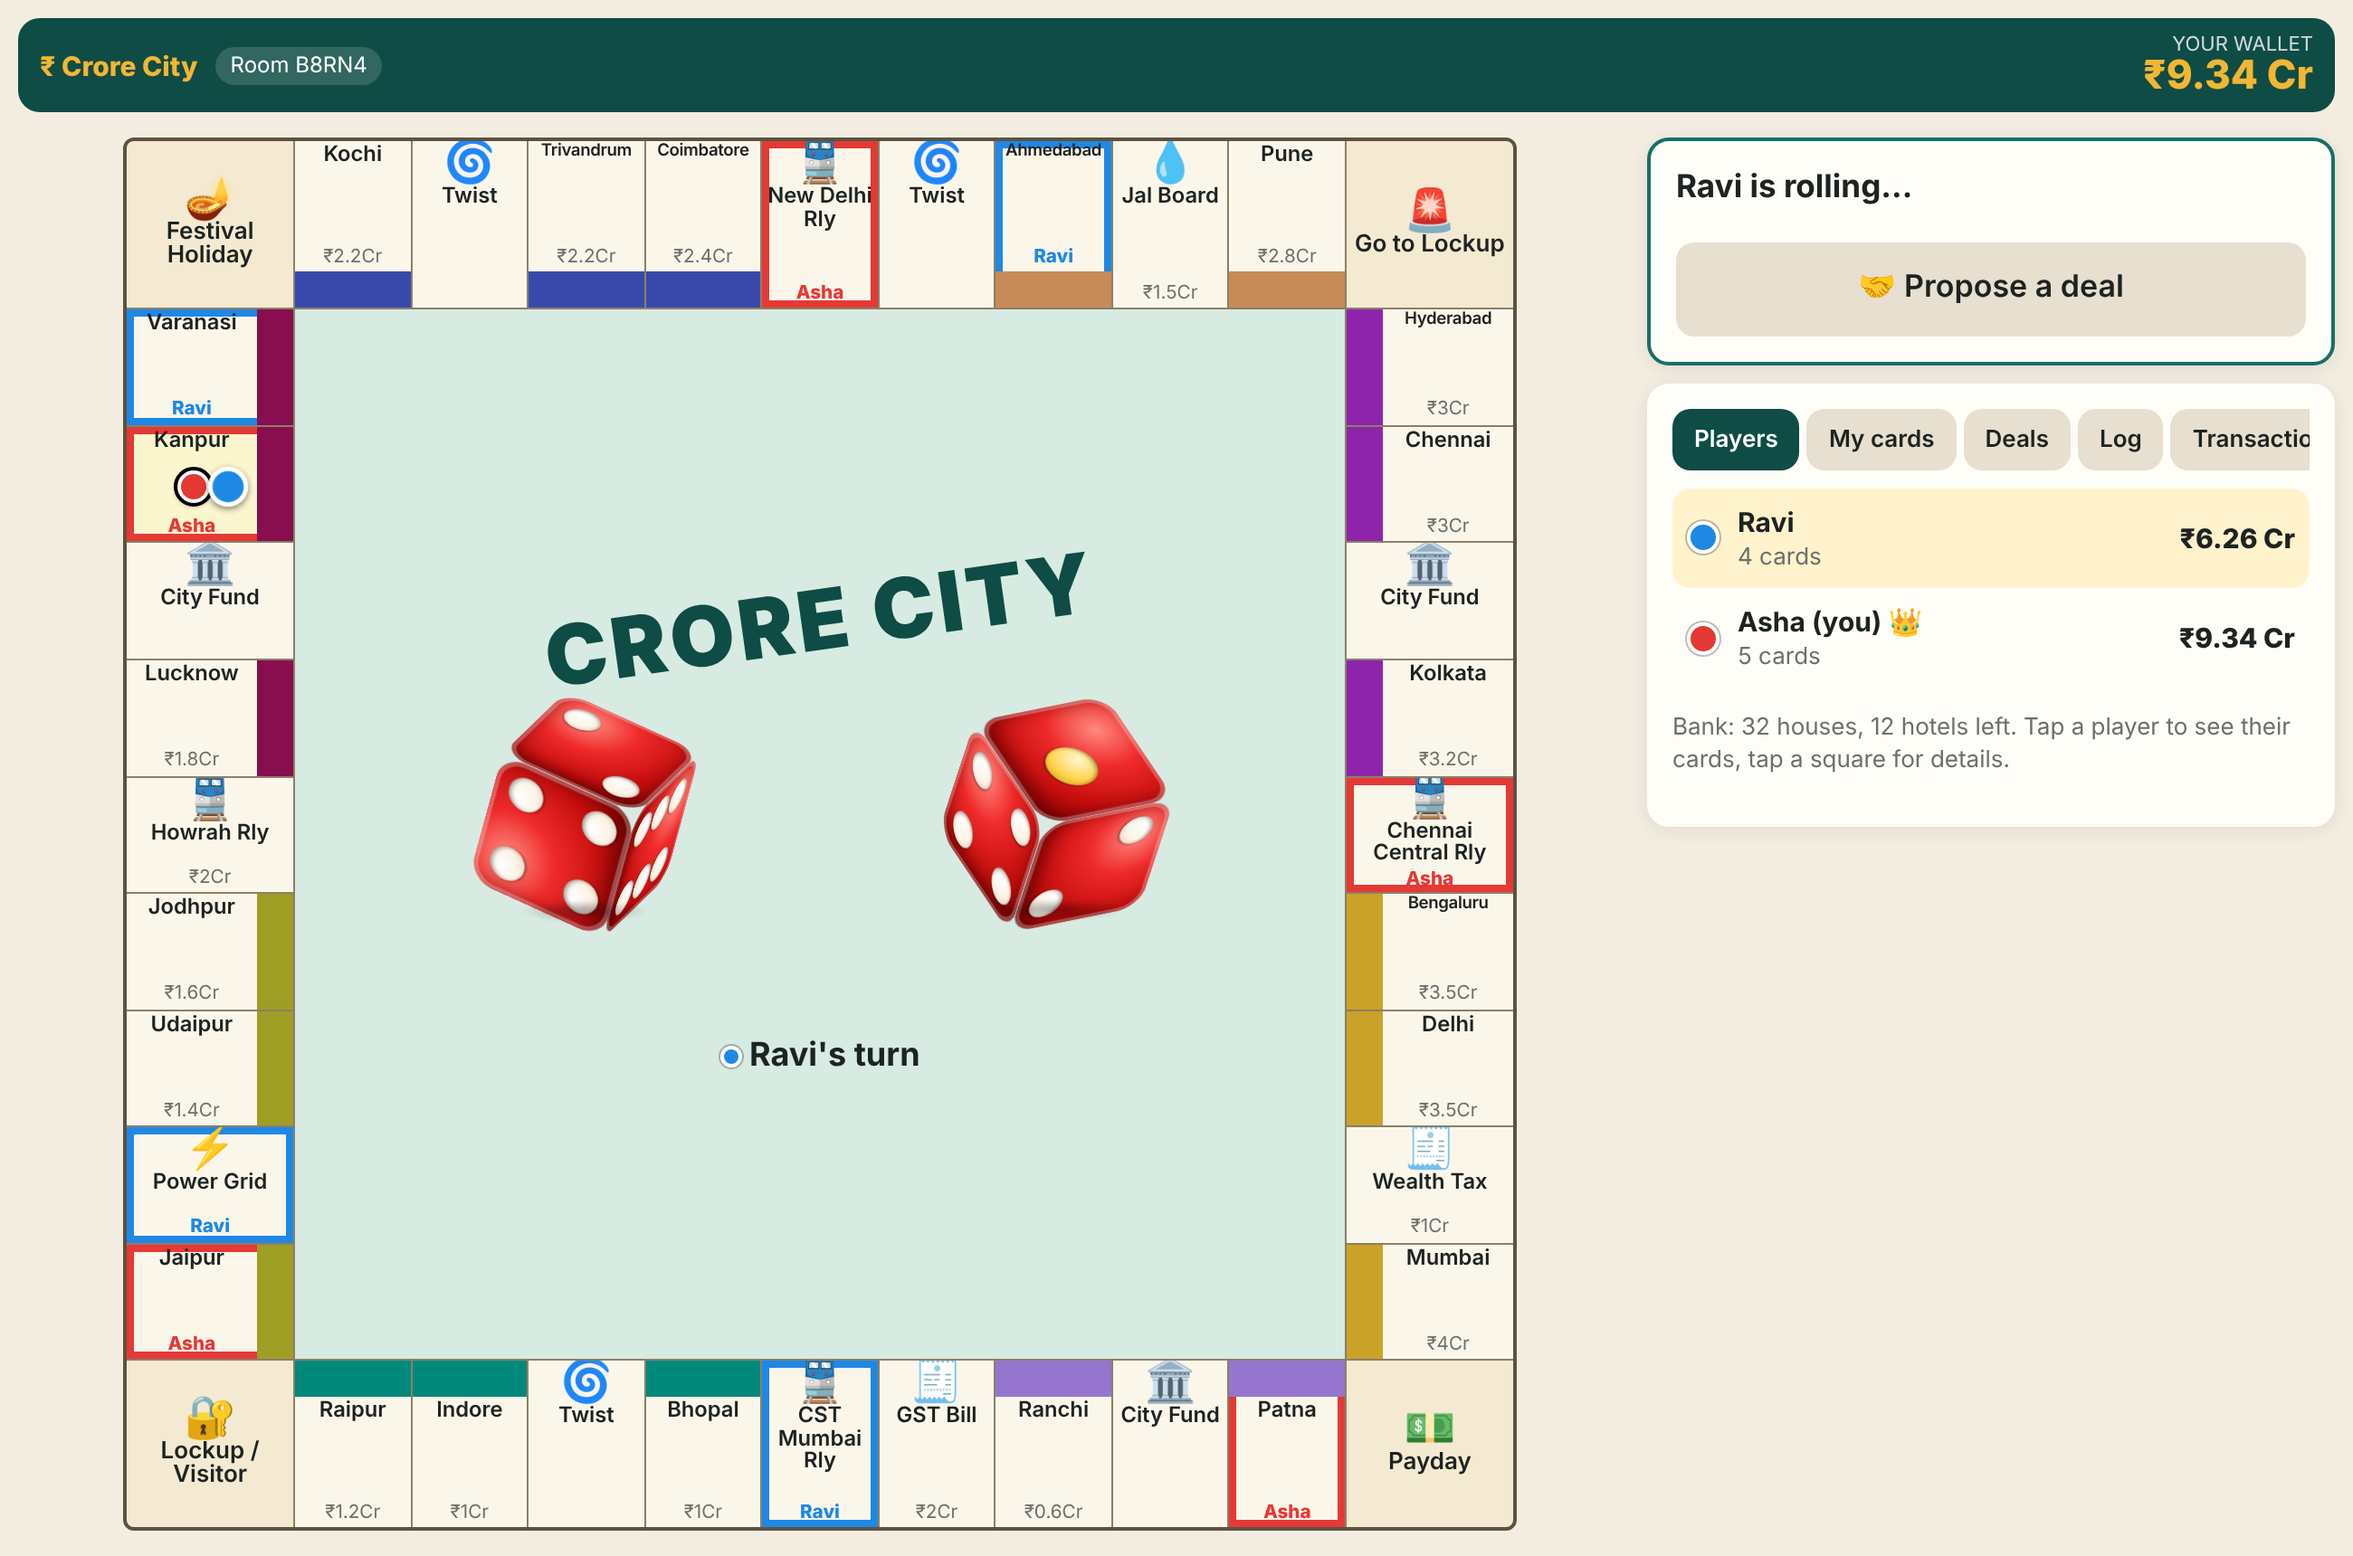
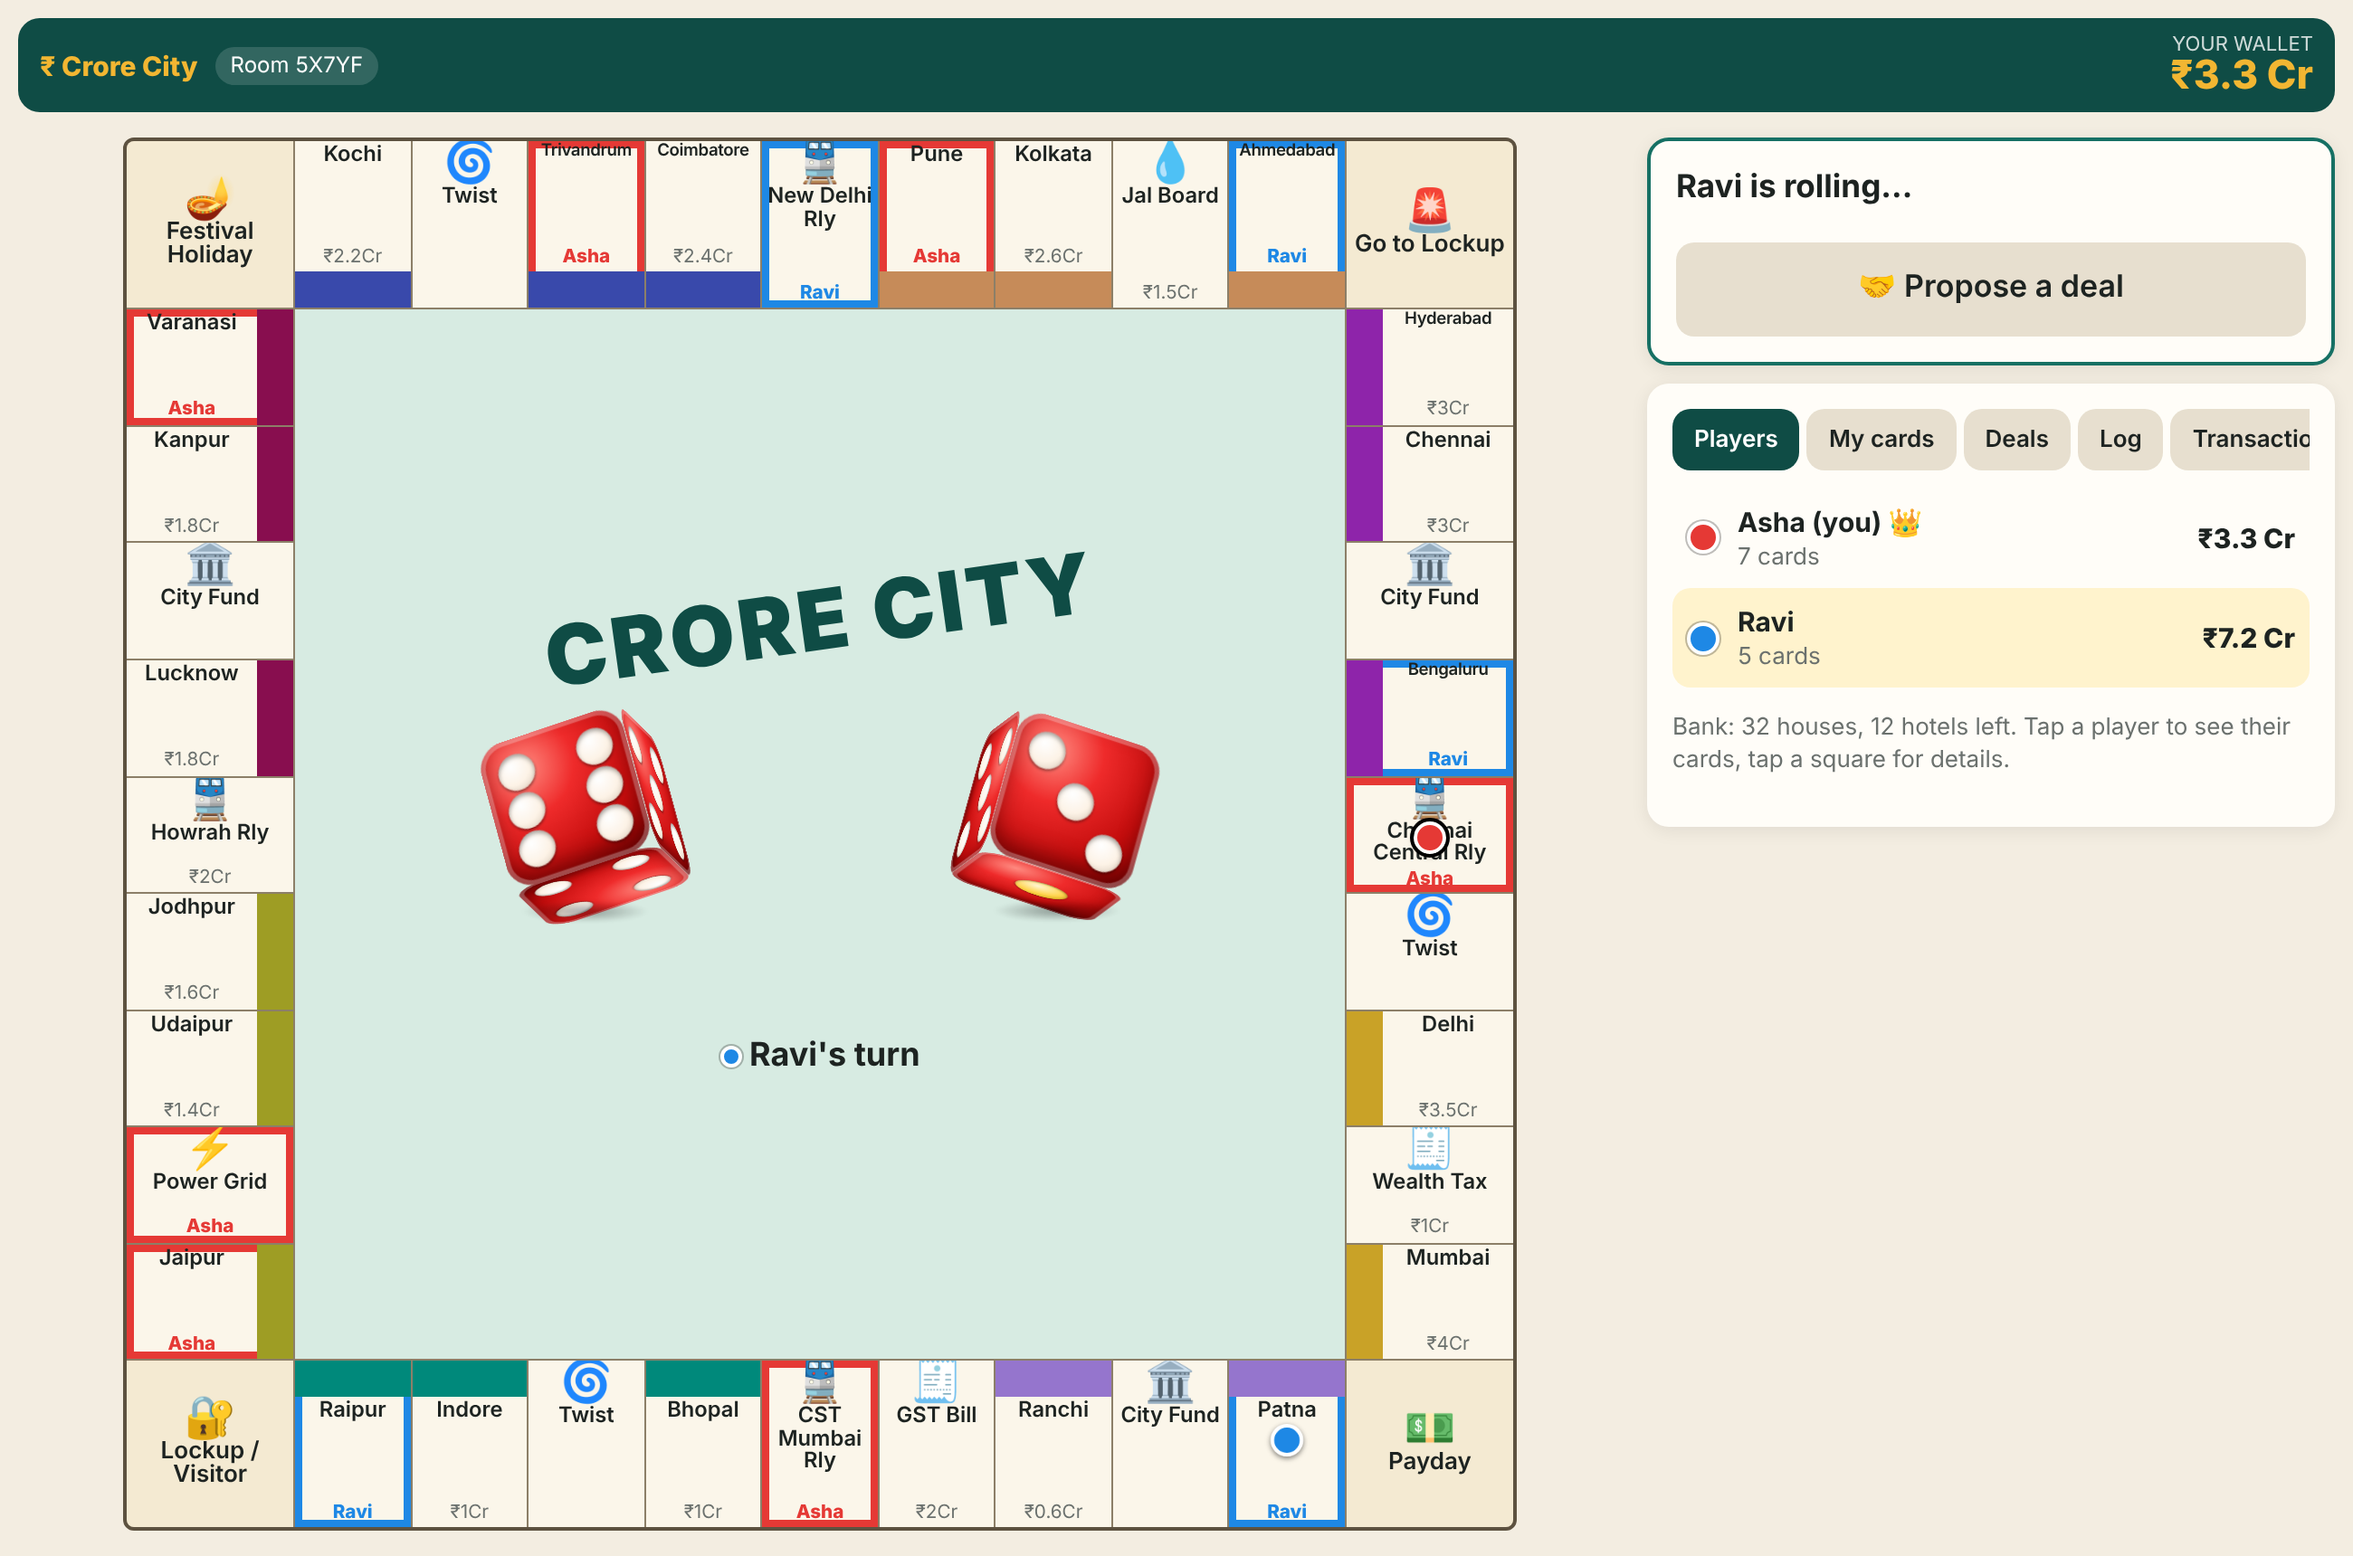
Rearrange top and right lines per board review
Top: Pune, Kolkata, Jal Board, Ahmedabad. Right: Hyderabad, Chennai, City Fund,
Bengaluru, railway, Twist, Delhi, Wealth Tax, Mumbai.

Claude-Session: https://claude.ai/code/session_01GqqNpzTa1FqroPwGw7naSL

diff --git a/game.js b/game.js
@@ -15,8 +15,8 @@ const GROUPS = {
   olive: { color: '#9e9d24', name: 'Rajasthan' },
   maroon: { color: '#880e4f', name: 'Uttar Pradesh' },
   indigo: { color: '#3949ab', name: 'South Coast' },
-  sand: { color: '#c68b59', name: 'West' },
-  plum: { color: '#8e24aa', name: 'Deccan & East' },
+  sand: { color: '#c68b59', name: 'Trade Cities' },
+  plum: { color: '#8e24aa', name: 'Southern Hubs' },
   gold: { color: '#c9a227', name: 'Metros' },
 };
 
@@ -48,17 +48,17 @@ const BOARD = [
   P('Thiruvananthapuram', 'indigo', 220, [18, 90, 250, 700, 875, 1050], 150),
   P('Coimbatore', 'indigo', 240, [20, 100, 300, 750, 925, 1100], 150),
   { type: 'rail', name: 'New Delhi Railway', price: 200 },
-  { type: 'chance', name: 'Twist' },
-  P('Ahmedabad', 'sand', 260, [22, 110, 330, 800, 975, 1150], 150),
+  P('Pune', 'sand', 260, [22, 110, 330, 800, 975, 1150], 150),
+  P('Kolkata', 'sand', 260, [22, 110, 330, 800, 975, 1150], 150),
   { type: 'util', name: 'Jal Board', price: 150 },
-  P('Pune', 'sand', 280, [24, 120, 360, 850, 1025, 1200], 150),
+  P('Ahmedabad', 'sand', 280, [24, 120, 360, 850, 1025, 1200], 150),
   { type: 'gotojail', name: 'Go to Lockup' },
   P('Hyderabad', 'plum', 300, [26, 130, 390, 900, 1100, 1275], 200),
   P('Chennai', 'plum', 300, [26, 130, 390, 900, 1100, 1275], 200),
   { type: 'chest', name: 'City Fund' },
-  P('Kolkata', 'plum', 320, [28, 150, 450, 1000, 1200, 1400], 200),
+  P('Bengaluru', 'plum', 320, [28, 150, 450, 1000, 1200, 1400], 200),
   { type: 'rail', name: 'Chennai Central Railway', price: 200 },
-  P('Bengaluru', 'gold', 350, [35, 175, 500, 1100, 1300, 1500], 200),
+  { type: 'chance', name: 'Twist' },
   P('Delhi', 'gold', 350, [35, 175, 500, 1100, 1300, 1500], 200),
   { type: 'tax', name: 'Wealth Tax', amount: 100 },
   P('Mumbai', 'gold', 400, [50, 200, 600, 1400, 1700, 2000], 200),

diff --git a/README.md b/README.md
@@ -49,7 +49,7 @@ Everyone starts with **₹15 Cr** and collects **₹2 Cr** each time they pass *
 ### Rules
 - Dice with doubles (three doubles in a row sends you to the Lockup)
 - The Lockup: roll doubles, pay ₹0.5 Cr bail, or use a Bail Pass; pay after three failed tries
-- 8 colour sets (the top Metros set is Bengaluru, Delhi and Mumbai), 4 railways, 2 utilities, GST Bill and Wealth Tax squares, Festival Holiday
+- 8 colour sets (the top Metros set is Delhi and Mumbai), 4 railways, 2 utilities, GST Bill and Wealth Tax squares, Festival Holiday
 - 32 original **Twist** and **City Fund** cards
 - Full colour set doubles base rent; ◆ houses and ★ hotels with the even-build rule and a limited bank supply (32 / 12)
 - **Mortgage** any property without buildings for half its price; **unmortgage** for that amount plus 10%. Mortgaged cities collect no rent and are hatched on the board
